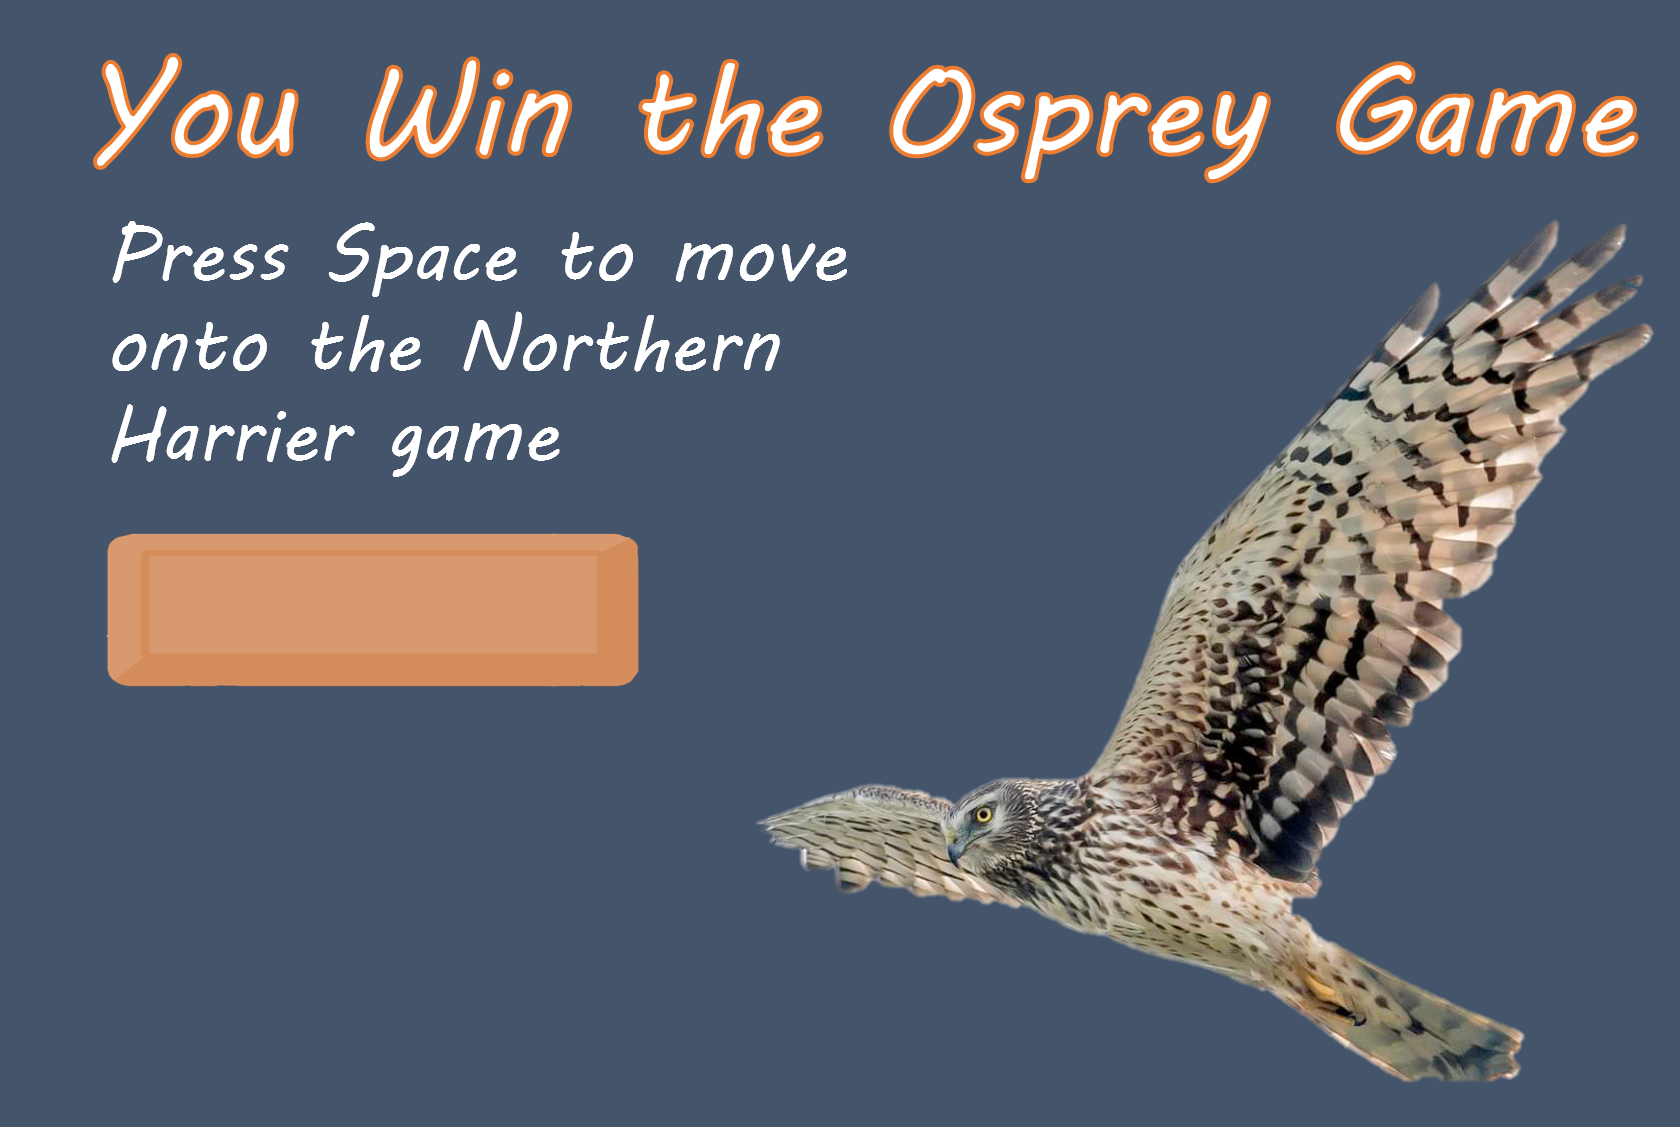
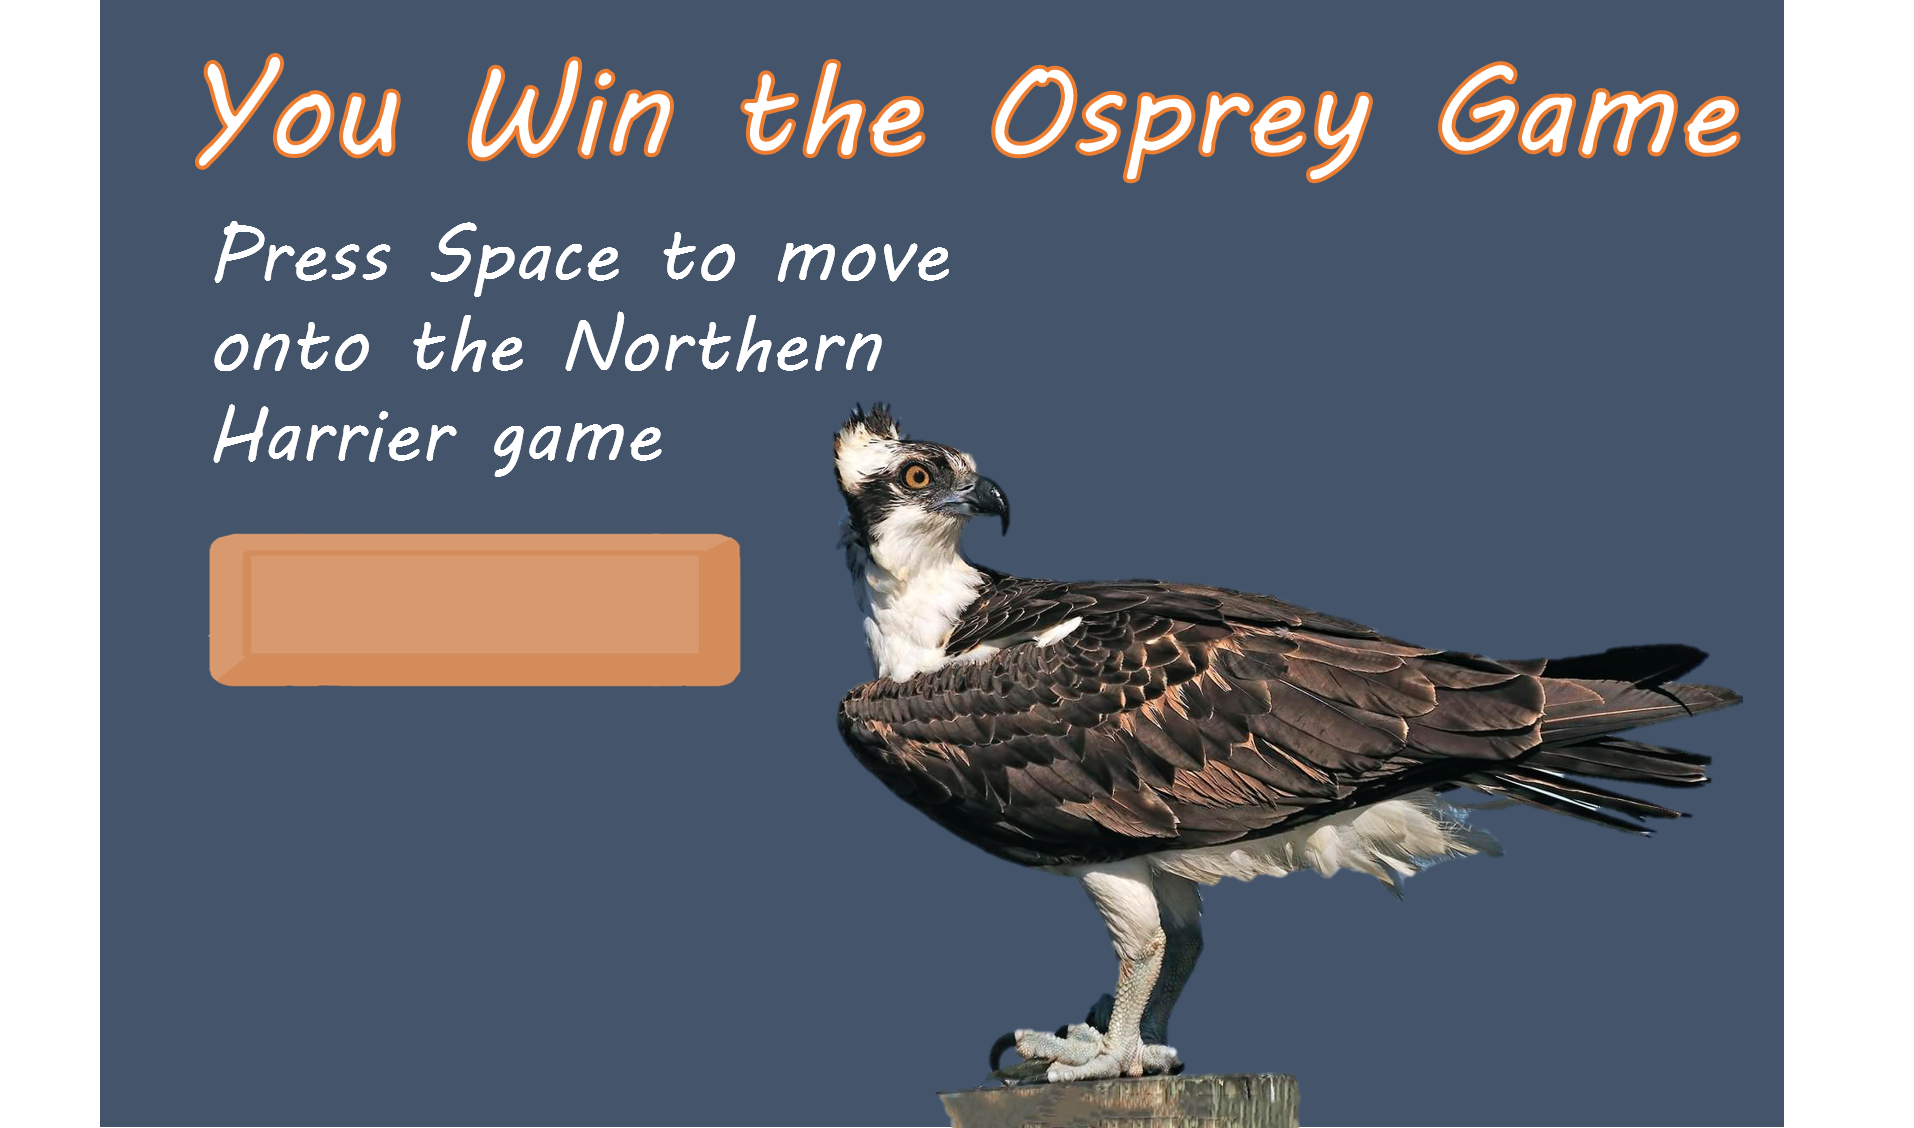
Fixes whackViewTut.setTutBox flag depending on mini map frames, fixed Osprey Win Screen to reflect correct view

diff --git a/BirdGameV1/src/gamePackage/Controller.java b/BirdGameV1/src/gamePackage/Controller.java
@@ -171,7 +171,7 @@ public class Controller implements Serializable {
 		}, false);
 		
 		//Goes from whack a mole game to win screen if player wins
-		addKeyBinding(whackViewGame, KeyEvent.VK_SPACE, "next panel from wmv", (e) -> { 	
+		addKeyBinding(whackViewGame, KeyEvent.VK_0, "next panel from wmv", (e) -> { 	
 			if (count % 3 == 1) {
 				this.state = GameState.OSPREYWIN;
 				this.cardLayout.show(this.masterPanel, "ospreywin");
@@ -229,9 +229,9 @@ public class Controller implements Serializable {
 			this.state = GameState.START;
 			this.cardLayout.show(this.masterPanel, "startOsprey");
 			setBindingsToWhackAMoleNULL();
-			whackViewTut.resetTimers();
+			//whackViewTut.resetTimers();
 			whackModel.setKeyState(0);
-			whackViewTut.resetIndex();
+			//whackViewTut.resetIndex();
 			
 			whackViewGame.resetTimers();
 			whackViewGame.resetIndex();
@@ -288,6 +288,7 @@ public class Controller implements Serializable {
 		if (!sideSwiperModel.getIsFirstFrame() && sideSwiperModel.getPicNumMap() % 9 == 0) {
 			this.state = GameState.WHACKAMOLE;
 			this.cardLayout.show(this.masterPanel, "whackAMoleTut");
+			whackViewTut.setShowTutBox(true);
 			whackModel.randomizeSequence();
 			whackViewTut.updateSequence(whackModel.getSequence());
 			whackViewTut.setIsWackView(true);
@@ -331,6 +332,7 @@ public class Controller implements Serializable {
 		if (!migrationModel.getFirstFrame() && migrationModel.getPicNumMap() % 13 == 0) {
 			this.state = GameState.WHACKAMOLE;
 			this.cardLayout.show(this.masterPanel, "whackAMoleTut");
+			whackViewTut.setShowTutBox(true);
 			whackModel.randomizeSequence();
 			whackViewTut.updateSequence(whackModel.getSequence());
 			whackViewTut.setIsWackView(true);
@@ -482,17 +484,14 @@ public class Controller implements Serializable {
 			protected Void doInBackground() throws Exception {
 				switch (state) {
 				case SIDESWIPER:
-					serializeGame(sideSwiperModel, "sideSwiperModel.txt");
 					if (!ssvPaused)
 						updateSideSwiperModel();
 					break;
 				case MIGRATION:
-					serializeGame(migrationModel, "migrationModel.txt");
 					if (!mmvPaused)
 						updateMigrationModel();
 					break;
 				case WHACKAMOLE:
-					serializeGame(whackModel, "whackModel.txt");
 					updateWhackKeyState();
 					winner();
 					break;
@@ -679,16 +678,6 @@ public class Controller implements Serializable {
 		}, true);
 	}
 	
-	public static void serializeGame(Model m, String currentGame) throws IOException {
-		try {
-			FileOutputStream output = new FileOutputStream(currentGame);
-			ObjectOutputStream outputStream = new ObjectOutputStream(output);
-			outputStream.writeObject(m);
-			outputStream.close();
-		} catch (Exception e) {
-			e.printStackTrace();
-		}
-	}
 	
 	public SideSwiperModel getSideSwiperModel() {
 		return sideSwiperModel;
